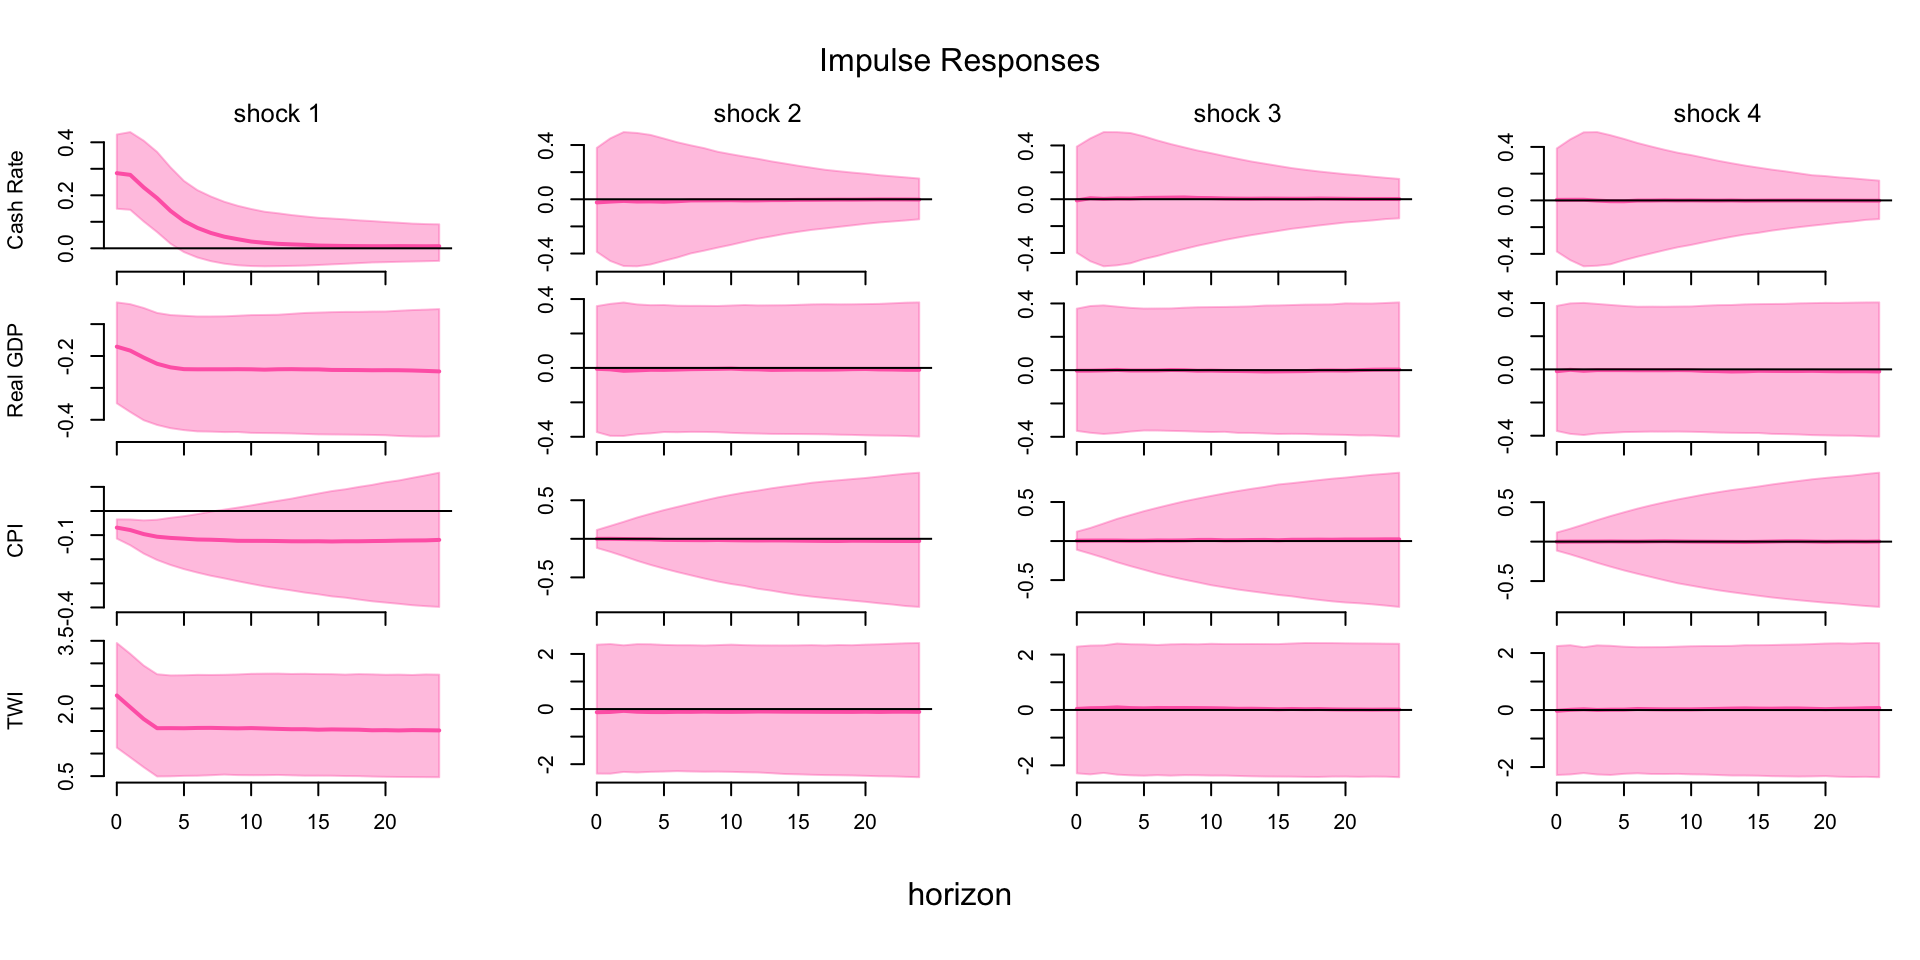
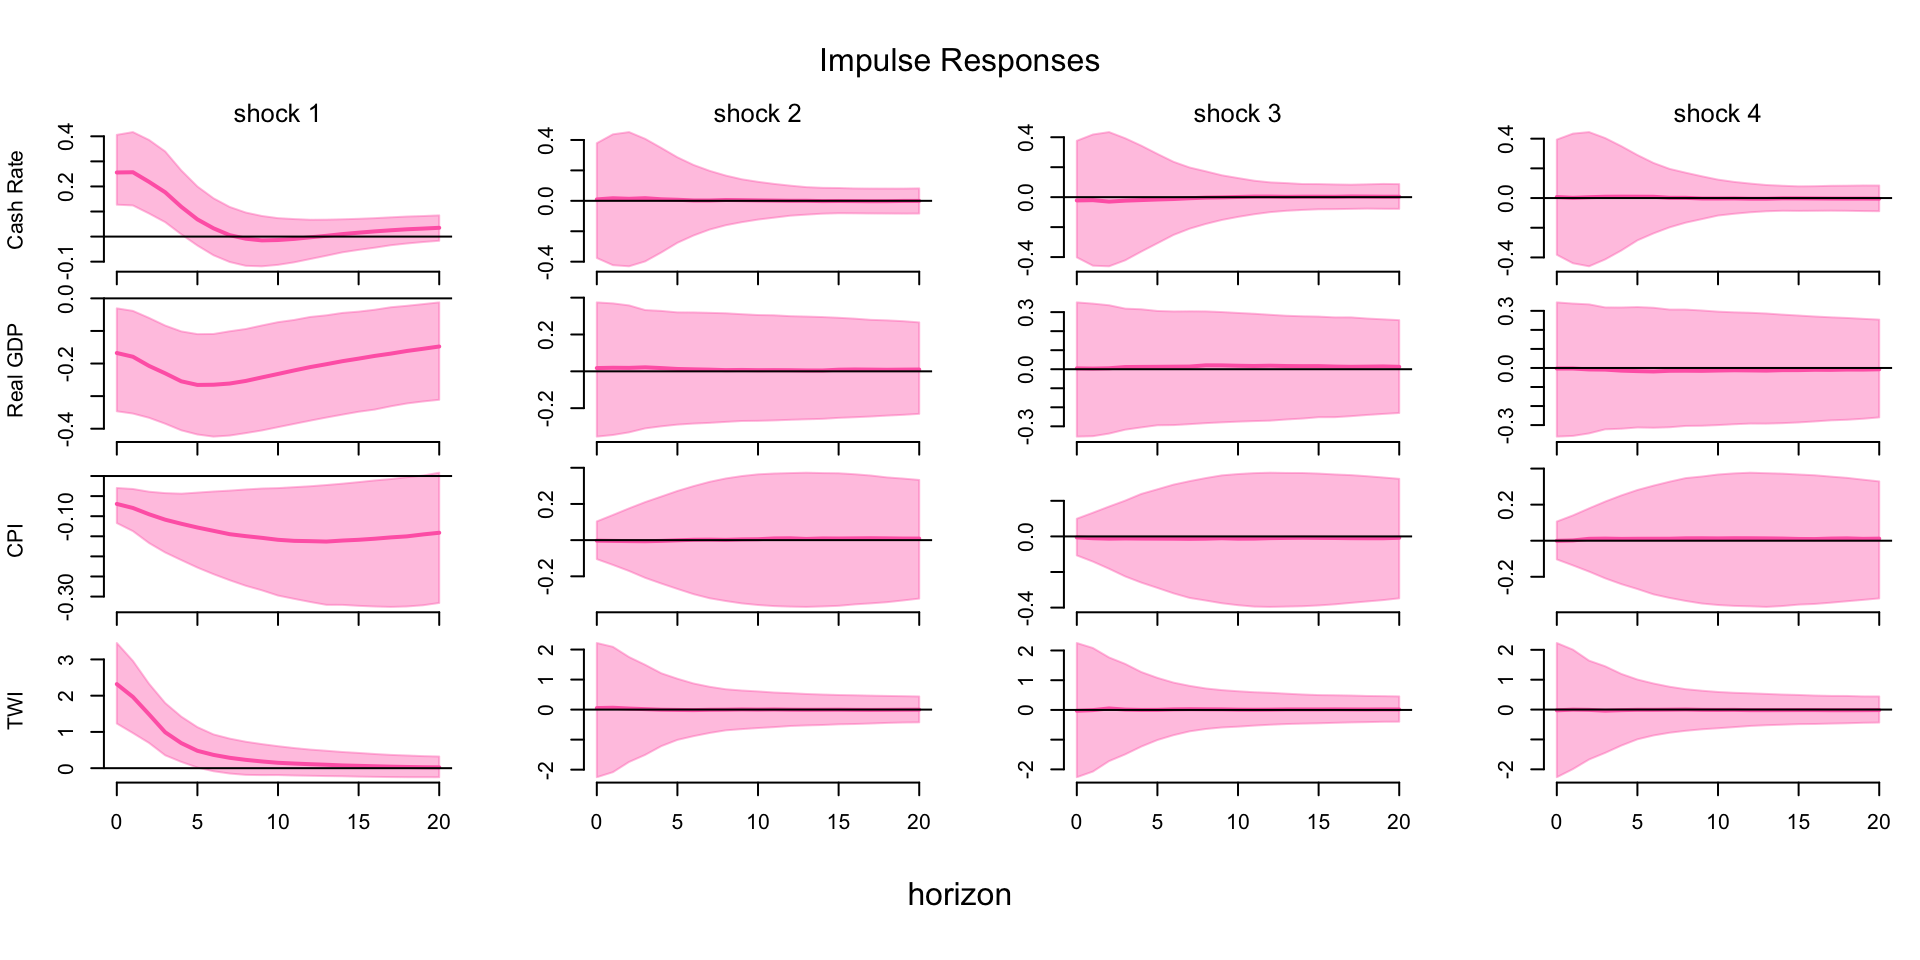
disable dummy priors

diff --git a/index-speaker.html b/index-speaker.html
@@ -11,7 +11,7 @@
   <meta name="generator" content="quarto-1.5.57">
 
   <meta name="author" content="Xiaolei (Adam) Wang">
-  <title>R package bsvarSIGNs</title>
+  <title>R Package bsvarSIGNs</title>
   <meta name="apple-mobile-web-app-capable" content="yes">
   <meta name="apple-mobile-web-app-status-bar-style" content="black-translucent">
   <meta name="viewport" content="width=device-width, initial-scale=1.0, maximum-scale=1.0, user-scalable=no, minimal-ui">
@@ -391,8 +391,8 @@
     <div class="slides">
 
 <section id="title-slide" data-background-color="#001D31" class="quarto-title-block center">
-  <h1 class="title"><span style="color: #ff68b4;">R package bsvarSIGNs</span></h1>
-  <p class="subtitle"><span style="color: #ff68b4;">Di Cook Award presentation</span></p>
+  <h1 class="title"><span style="color: #ff68b4;">R Package bsvarSIGNs</span></h1>
+  <p class="subtitle"><span style="color: #ff68b4;">Di Cook Award Presentation</span></p>
 
 <div class="quarto-title-authors">
 <div class="quarto-title-author">
@@ -438,8 +438,8 @@
 <p><br></p>
 <h3 style="color:#ff68b4;" id="bayesian">(b)ayesian</h3>
 <h3 style="color:#ff68b4;" id="structural">(s)tructural</h3>
-<h3 style="color:#ff68b4;" id="vector-autoregressions">(v)ector (a)utoreg(r)ession(s)</h3>
-<h3 style="color:#ff68b4;" id="with-sign-restrictions">with (SIGN) restrictions</h3>
+<h3 style="color:#ff68b4;" id="vector-autoregressions">(v)ector (a)utoreg(r)essions</h3>
+<h3 style="color:#ff68b4;" id="with-sign-restrictions">with (SIGN) restriction(s)</h3>
 </section>
 <section id="structural-1" class="slide level2" data-background-color="#001D31">
 <h2><span style="color: #ff68b4;">Structural?</span></h2>
@@ -502,7 +502,7 @@ u_{1t}^{\text{MP}}\\u_{2t}\\u_{3t}\\u_{4t}
 </div>
 </section>
 <section id="more-signs" class="slide level2" data-background-color="#001D31">
-<h2><span style="color: #ff68b4;">More SIGNs?</span></h2>
+<h2><span style="color: #ff68b4;">More SIGNs</span></h2>
 <p><br></p>
 <ul>
 <li><p>The package alo supports restrictrions on <span class="math inline">\(B\)</span> i.e.&nbsp;contemporaneous relations <span class="math display">\[\begin{align*}
@@ -595,32 +595,28 @@ b_{41}&amp;b_{42}&amp;b_{43}&amp;b_{44}
  **************************************************|</code></pre>
 </div>
 <div class="cell-output cell-output-stdout">
-<pre><code>         mean        sd 5% quantile 95% quantile
-0  -0.1848423 0.1449305  -0.4373337  0.028610188
-1  -0.1972327 0.1557155  -0.4658174  0.037483292
-2  -0.2189608 0.1647144  -0.5028971  0.030829276
-3  -0.2365112 0.1678426  -0.5272946  0.021060908
-4  -0.2459333 0.1686773  -0.5386727  0.012236915
-5  -0.2508634 0.1690024  -0.5458537  0.009179505
-6  -0.2528088 0.1699245  -0.5454282  0.009509608
-7  -0.2523575 0.1710734  -0.5472224  0.010631204
-8  -0.2518989 0.1723405  -0.5459244  0.014072723
-9  -0.2515828 0.1736392  -0.5451678  0.015754998
-10 -0.2514645 0.1749270  -0.5452272  0.017639028
-11 -0.2514663 0.1761967  -0.5457441  0.019627121
-12 -0.2515380 0.1774506  -0.5463094  0.021278089
-13 -0.2516358 0.1786955  -0.5465798  0.022088615
-14 -0.2517385 0.1799440  -0.5482671  0.026313974
-15 -0.2518325 0.1812067  -0.5496745  0.030087675
-16 -0.2519159 0.1824927  -0.5522934  0.032792723
-17 -0.2519896 0.1838093  -0.5521873  0.034453904
-18 -0.2520560 0.1851625  -0.5536774  0.037861310
-19 -0.2521170 0.1865569  -0.5560977  0.040219785
-20 -0.2521741 0.1879959  -0.5550243  0.044710363
-21 -0.2522282 0.1894824  -0.5561556  0.047663624
-22 -0.2522796 0.1910182  -0.5574268  0.052534098
-23 -0.2523287 0.1926051  -0.5617399  0.055432091
-24 -0.2523755 0.1942443  -0.5633436  0.057803345</code></pre>
+<pre><code>         mean        sd 5% quantile  95% quantile
+0  -0.1837484 0.1438489  -0.4295756  0.0254521230
+1  -0.1919969 0.1462399  -0.4442807  0.0241581974
+2  -0.2125791 0.1469114  -0.4621927  0.0112834321
+3  -0.2323939 0.1460791  -0.4757095  0.0008290802
+4  -0.2528213 0.1488622  -0.4977457 -0.0104613974
+5  -0.2637240 0.1525702  -0.5153036 -0.0134905369
+6  -0.2664673 0.1563720  -0.5256955 -0.0122216476
+7  -0.2622209 0.1593557  -0.5315106 -0.0038934003
+8  -0.2547855 0.1615475  -0.5298977  0.0063592121
+9  -0.2457313 0.1631078  -0.5232646  0.0128340909
+10 -0.2362044 0.1642777  -0.5143287  0.0254801247
+11 -0.2267619 0.1652260  -0.5048653  0.0374801324
+12 -0.2177028 0.1660716  -0.4972879  0.0423198619
+13 -0.2091278 0.1668833  -0.4949965  0.0501458378
+14 -0.2010556 0.1677055  -0.4830306  0.0564884001
+15 -0.1934627 0.1685626  -0.4773320  0.0621637593
+16 -0.1863216 0.1694680  -0.4703457  0.0667087572
+17 -0.1796096 0.1704267  -0.4640941  0.0726520546
+18 -0.1733106 0.1714390  -0.4596467  0.0781103445
+19 -0.1674123 0.1725033  -0.4538969  0.0854539864
+20 -0.1619036 0.1736181  -0.4535250  0.0896760294</code></pre>
 </div>
 </div>
 </section>

diff --git a/index.html b/index.html
@@ -11,7 +11,7 @@
   <meta name="generator" content="quarto-1.5.57">
 
   <meta name="author" content="Xiaolei (Adam) Wang">
-  <title>R package bsvarSIGNs</title>
+  <title>R Package bsvarSIGNs</title>
   <meta name="apple-mobile-web-app-capable" content="yes">
   <meta name="apple-mobile-web-app-status-bar-style" content="black-translucent">
   <meta name="viewport" content="width=device-width, initial-scale=1.0, maximum-scale=1.0, user-scalable=no, minimal-ui">
@@ -391,8 +391,8 @@
     <div class="slides">
 
 <section id="title-slide" data-background-color="#001D31" class="quarto-title-block center">
-  <h1 class="title"><span style="color: #ff68b4;">R package bsvarSIGNs</span></h1>
-  <p class="subtitle"><span style="color: #ff68b4;">Di Cook Award presentation</span></p>
+  <h1 class="title"><span style="color: #ff68b4;">R Package bsvarSIGNs</span></h1>
+  <p class="subtitle"><span style="color: #ff68b4;">Di Cook Award Presentation</span></p>
 
 <div class="quarto-title-authors">
 <div class="quarto-title-author">
@@ -438,8 +438,8 @@
 <p><br></p>
 <h3 style="color:#ff68b4;" id="bayesian">(b)ayesian</h3>
 <h3 style="color:#ff68b4;" id="structural">(s)tructural</h3>
-<h3 style="color:#ff68b4;" id="vector-autoregressions">(v)ector (a)utoreg(r)ession(s)</h3>
-<h3 style="color:#ff68b4;" id="with-sign-restrictions">with (SIGN) restrictions</h3>
+<h3 style="color:#ff68b4;" id="vector-autoregressions">(v)ector (a)utoreg(r)essions</h3>
+<h3 style="color:#ff68b4;" id="with-sign-restrictions">with (SIGN) restriction(s)</h3>
 </section>
 <section id="structural-1" class="slide level2" data-background-color="#001D31">
 <h2><span style="color: #ff68b4;">Structural?</span></h2>
@@ -502,7 +502,7 @@ u_{1t}^{\text{MP}}\\u_{2t}\\u_{3t}\\u_{4t}
 </div>
 </section>
 <section id="more-signs" class="slide level2" data-background-color="#001D31">
-<h2><span style="color: #ff68b4;">More SIGNs?</span></h2>
+<h2><span style="color: #ff68b4;">More SIGNs</span></h2>
 <p><br></p>
 <ul>
 <li><p>The package alo supports restrictrions on <span class="math inline">\(B\)</span> i.e.&nbsp;contemporaneous relations <span class="math display">\[\begin{align*}
@@ -595,32 +595,28 @@ b_{41}&amp;b_{42}&amp;b_{43}&amp;b_{44}
  **************************************************|</code></pre>
 </div>
 <div class="cell-output cell-output-stdout">
-<pre><code>         mean        sd 5% quantile 95% quantile
-0  -0.1848423 0.1449305  -0.4373337  0.028610188
-1  -0.1972327 0.1557155  -0.4658174  0.037483292
-2  -0.2189608 0.1647144  -0.5028971  0.030829276
-3  -0.2365112 0.1678426  -0.5272946  0.021060908
-4  -0.2459333 0.1686773  -0.5386727  0.012236915
-5  -0.2508634 0.1690024  -0.5458537  0.009179505
-6  -0.2528088 0.1699245  -0.5454282  0.009509608
-7  -0.2523575 0.1710734  -0.5472224  0.010631204
-8  -0.2518989 0.1723405  -0.5459244  0.014072723
-9  -0.2515828 0.1736392  -0.5451678  0.015754998
-10 -0.2514645 0.1749270  -0.5452272  0.017639028
-11 -0.2514663 0.1761967  -0.5457441  0.019627121
-12 -0.2515380 0.1774506  -0.5463094  0.021278089
-13 -0.2516358 0.1786955  -0.5465798  0.022088615
-14 -0.2517385 0.1799440  -0.5482671  0.026313974
-15 -0.2518325 0.1812067  -0.5496745  0.030087675
-16 -0.2519159 0.1824927  -0.5522934  0.032792723
-17 -0.2519896 0.1838093  -0.5521873  0.034453904
-18 -0.2520560 0.1851625  -0.5536774  0.037861310
-19 -0.2521170 0.1865569  -0.5560977  0.040219785
-20 -0.2521741 0.1879959  -0.5550243  0.044710363
-21 -0.2522282 0.1894824  -0.5561556  0.047663624
-22 -0.2522796 0.1910182  -0.5574268  0.052534098
-23 -0.2523287 0.1926051  -0.5617399  0.055432091
-24 -0.2523755 0.1942443  -0.5633436  0.057803345</code></pre>
+<pre><code>         mean        sd 5% quantile  95% quantile
+0  -0.1837484 0.1438489  -0.4295756  0.0254521230
+1  -0.1919969 0.1462399  -0.4442807  0.0241581974
+2  -0.2125791 0.1469114  -0.4621927  0.0112834321
+3  -0.2323939 0.1460791  -0.4757095  0.0008290802
+4  -0.2528213 0.1488622  -0.4977457 -0.0104613974
+5  -0.2637240 0.1525702  -0.5153036 -0.0134905369
+6  -0.2664673 0.1563720  -0.5256955 -0.0122216476
+7  -0.2622209 0.1593557  -0.5315106 -0.0038934003
+8  -0.2547855 0.1615475  -0.5298977  0.0063592121
+9  -0.2457313 0.1631078  -0.5232646  0.0128340909
+10 -0.2362044 0.1642777  -0.5143287  0.0254801247
+11 -0.2267619 0.1652260  -0.5048653  0.0374801324
+12 -0.2177028 0.1660716  -0.4972879  0.0423198619
+13 -0.2091278 0.1668833  -0.4949965  0.0501458378
+14 -0.2010556 0.1677055  -0.4830306  0.0564884001
+15 -0.1934627 0.1685626  -0.4773320  0.0621637593
+16 -0.1863216 0.1694680  -0.4703457  0.0667087572
+17 -0.1796096 0.1704267  -0.4640941  0.0726520546
+18 -0.1733106 0.1714390  -0.4596467  0.0781103445
+19 -0.1674123 0.1725033  -0.4538969  0.0854539864
+20 -0.1619036 0.1736181  -0.4535250  0.0896760294</code></pre>
 </div>
 </div>
 </section>
